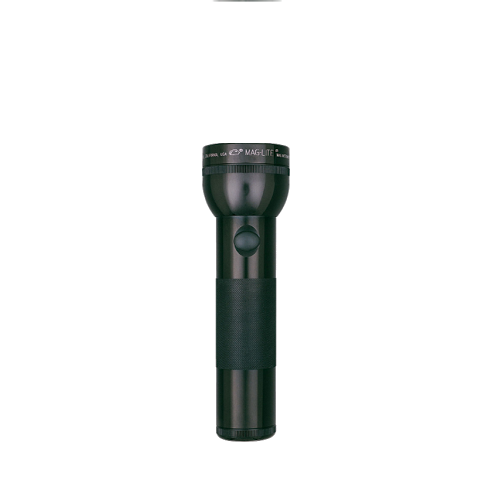
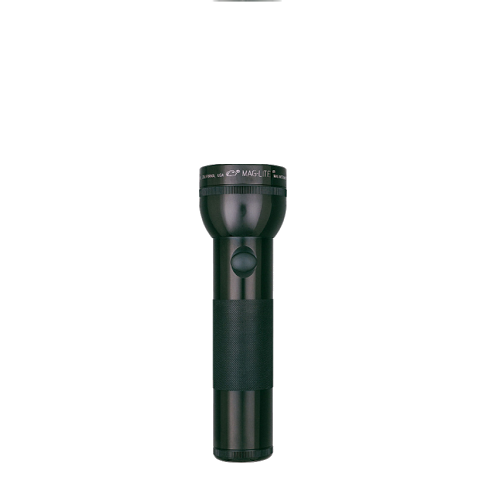
added image and events

Changed region(s): [[0.39, 0.27, 0.6, 0.93]]

diff --git a/index.html b/index.html
@@ -6,6 +6,12 @@
 		<title>TorchLight App By Rushi</title>
 		<script src="phonegap.js"></script>
 		<script src="js/plugins/Flashlight.js"></script>
+		<style type="text/css">
+		#container{
+			margin: 0 auto;
+			text-align: center;
+		}
+		</style>
 		<script type="text/javascript">
 /*
 			document.addEventListener("backbutton", function() {
@@ -19,6 +25,14 @@
 */
 
 			function flashlightDemo() {
+			  var a = document.getElementById('container');
+			  if(a.getAttribute('class')=='off'){
+			  	a.setAttribute('class','on');
+			  	document.getElementById('torchImg').src = "torchOn.png";
+			  }else{
+			  	a.setAttribute('class','off');
+			  	document.getElementById('torchImg').src = "torchOff.png";
+			  }
 			  window.plugins.flashlight.available(function(isAvailable) {
 			    if (isAvailable) {
 			      window.plugins.flashlight.toggle();
@@ -50,6 +64,8 @@
 		</script>
 	</head>
 	<body>
-		 <button onclick="flashlightDemo()">Toggle Flashlight</button>
+		<div id="container" class="off">
+		 <img id="torchImg" src="torchOff.png" onclick="flashlightDemo()" />
+		</div>
 	</body>
 </html>
